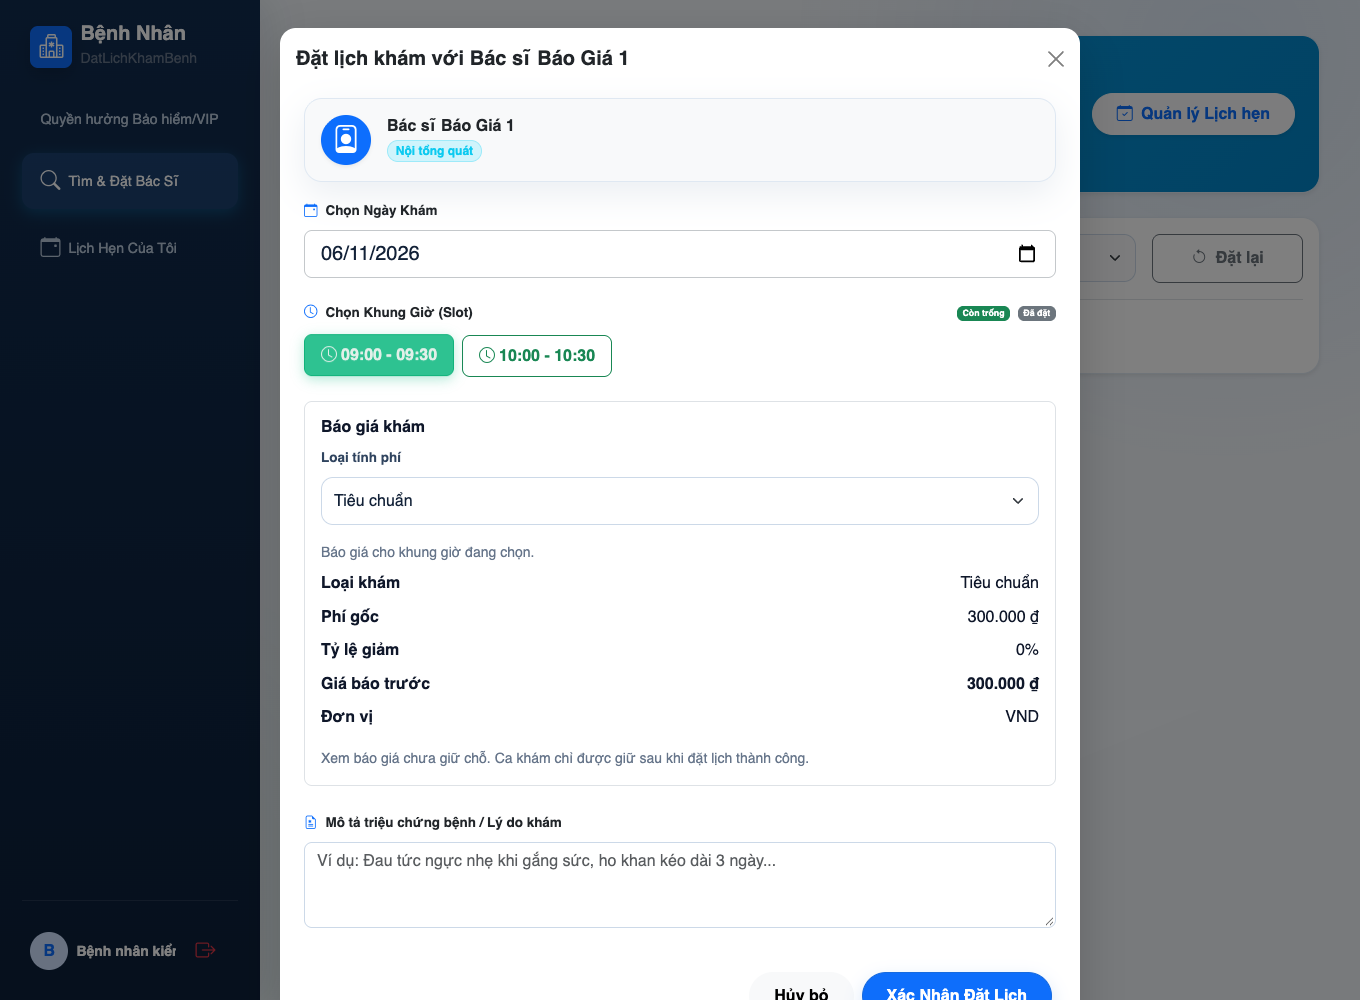
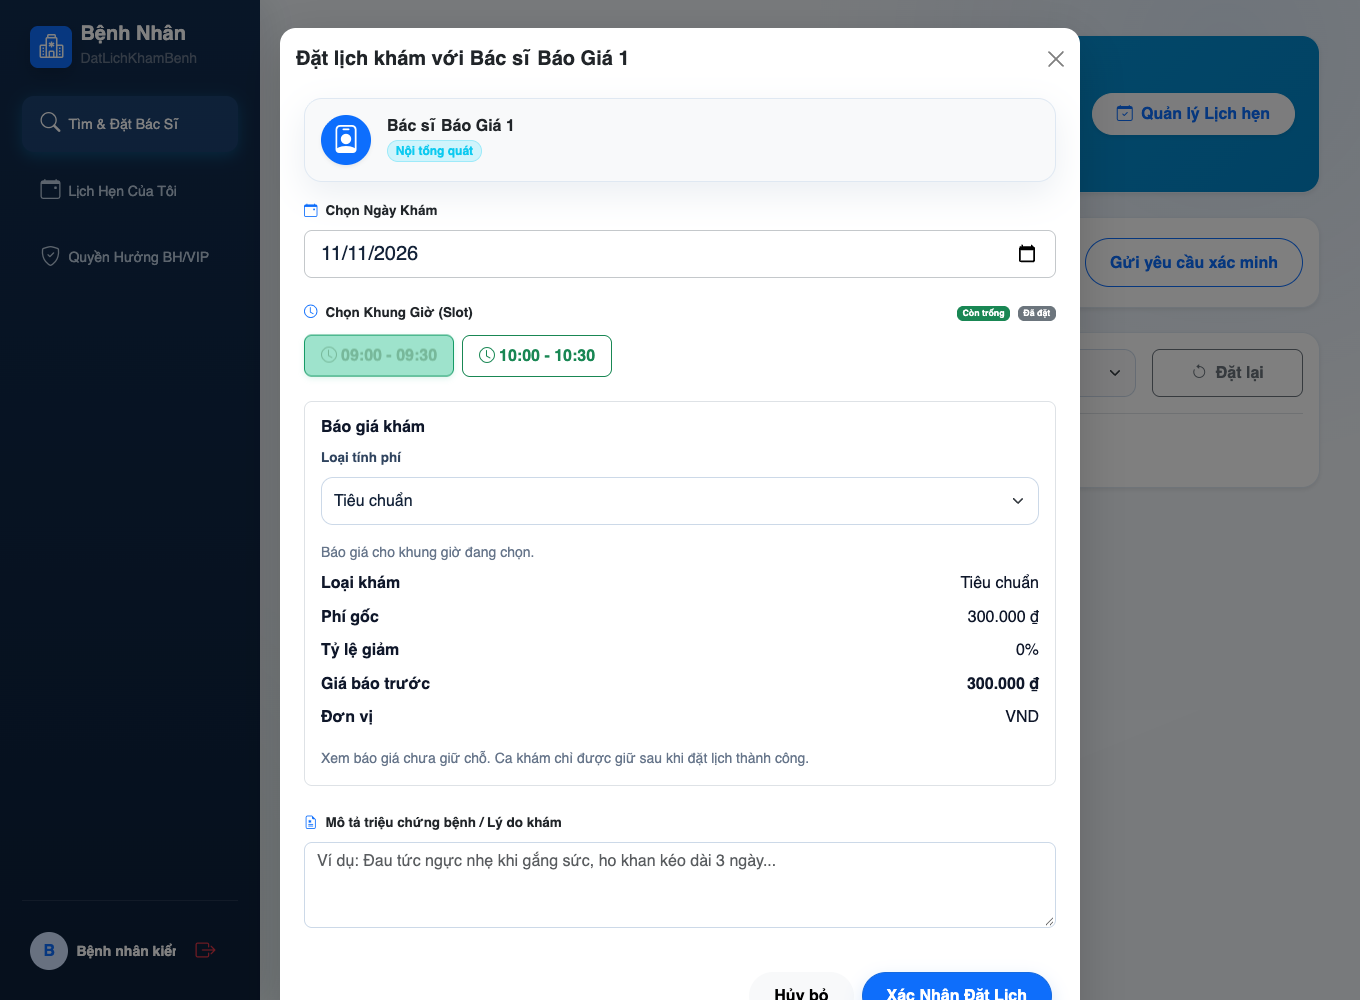
test(observer): rejected bookings trigger no observer reaction
Closes #30

diff --git a/backend/src/test/java/com/datlichkhambenh/backend/observer/AppointmentObserverIntegrationTests.java b/backend/src/test/java/com/datlichkhambenh/backend/observer/AppointmentObserverIntegrationTests.java
@@ -7,6 +7,7 @@ import java.util.List;
 
 import static org.junit.jupiter.api.Assertions.assertEquals;
 import static org.junit.jupiter.api.Assertions.assertNull;
+import static org.junit.jupiter.api.Assertions.assertTrue;
 
 /** Observer tickets 06-09: booking events and the observers that react to them. */
 class AppointmentObserverIntegrationTests extends BookingApiFixture {
@@ -39,5 +40,49 @@ class AppointmentObserverIntegrationTests extends BookingApiFixture {
         assertEquals("BOOKING_CANCELLED", nextEmail().type());
         assertNull(noMoreEmailWithin(300), "only one cancellation notice expected");
         assertEquals(List.of(doctorId + "@" + day), cache.slotEvictions);
+    }
+
+    @Test
+    void changedPriceIsRejectedWithoutAnyReaction() throws Exception {
+        var body = confirmBody();
+        body.put("expectedPrice", 1);
+
+        var response = confirm(body);
+
+        assertEquals(409, response.getStatus());
+        assertEquals("PRICE_CHANGED", code(response));
+        assertNoReaction();
+    }
+
+    @Test
+    void unavailableBenefitIsRejectedWithoutAnyReaction() throws Exception {
+        var body = confirmBody();
+        body.put("strategyKey", "INSURANCE");
+        body.put("expectedDiscountRate", 0.8);
+        body.put("expectedPrice", 60000);
+
+        var response = confirm(body);
+
+        assertEquals(403, response.getStatus());
+        assertEquals("BENEFIT_UNAVAILABLE", code(response));
+        assertNoReaction();
+    }
+
+    @Test
+    void takenSlotIsRejectedWithoutASecondReaction() throws Exception {
+        book();
+        nextEmail();
+        cache.slotEvictions.clear();
+
+        var response = confirm(confirmBody());
+
+        assertEquals(409, response.getStatus());
+        assertEquals("SLOT_UNAVAILABLE", code(response));
+        assertNoReaction();
+    }
+
+    private void assertNoReaction() throws InterruptedException {
+        assertNull(noMoreEmailWithin(300), "a rejected booking must not e-mail");
+        assertTrue(cache.slotEvictions.isEmpty(), "a rejected booking must not touch the slot cache");
     }
 }

diff --git a/backend/src/test/java/com/datlichkhambenh/backend/support/BookingApiFixture.java b/backend/src/test/java/com/datlichkhambenh/backend/support/BookingApiFixture.java
@@ -26,6 +26,7 @@ import org.springframework.context.annotation.Bean;
 import org.springframework.context.annotation.Import;
 import org.springframework.context.annotation.Primary;
 import org.springframework.http.MediaType;
+import org.springframework.mock.web.MockHttpServletResponse;
 import org.springframework.test.context.ActiveProfiles;
 import org.springframework.test.web.servlet.MockMvc;
 import org.springframework.transaction.PlatformTransactionManager;
@@ -169,12 +170,22 @@ public abstract class BookingApiFixture {
 
     /** Books the seeded slot and returns the saved appointment JSON. */
     protected JsonNode book() throws Exception {
-        String path = PATH + "/confirm";
-        var response = mvc.perform(post(path).servletPath(path).header("Authorization", "Bearer " + patientToken)
-                .contentType(MediaType.APPLICATION_JSON).content(json.writeValueAsString(confirmBody())))
-                .andReturn().getResponse();
+        var response = confirm(confirmBody());
         assertEquals(201, response.getStatus(), response.getContentAsString());
         return json.readTree(response.getContentAsString()).path("data");
+    }
+
+    /** Raw confirmation call, for tests of rejected bookings. */
+    protected MockHttpServletResponse confirm(Map<String, Object> body) throws Exception {
+        String path = PATH + "/confirm";
+        return mvc.perform(post(path).servletPath(path).header("Authorization", "Bearer " + patientToken)
+                .contentType(MediaType.APPLICATION_JSON).content(json.writeValueAsString(body)))
+                .andReturn().getResponse();
+    }
+
+    /** Error code of a rejected booking response. */
+    protected String code(MockHttpServletResponse response) throws Exception {
+        return json.readTree(response.getContentAsString()).path("code").asText();
     }
 
     protected void cancel(long appointmentId) throws Exception {

diff --git a/.scratch/design-patterns-redesign/issues/09-o-rollback.md b/.scratch/design-patterns-redesign/issues/09-o-rollback.md
@@ -4,8 +4,8 @@
 
 **Blocked by:** 08
 
-**Status:** ready-for-agent
+**Status:** done
 
 **GitHub:** #30
 
-- [ ] Test qua API: mỗi nhánh thất bại → không có bản tin ở RabbitTemplate
+- [x] Test qua API: mỗi nhánh thất bại → không có bản tin ở RabbitTemplate
